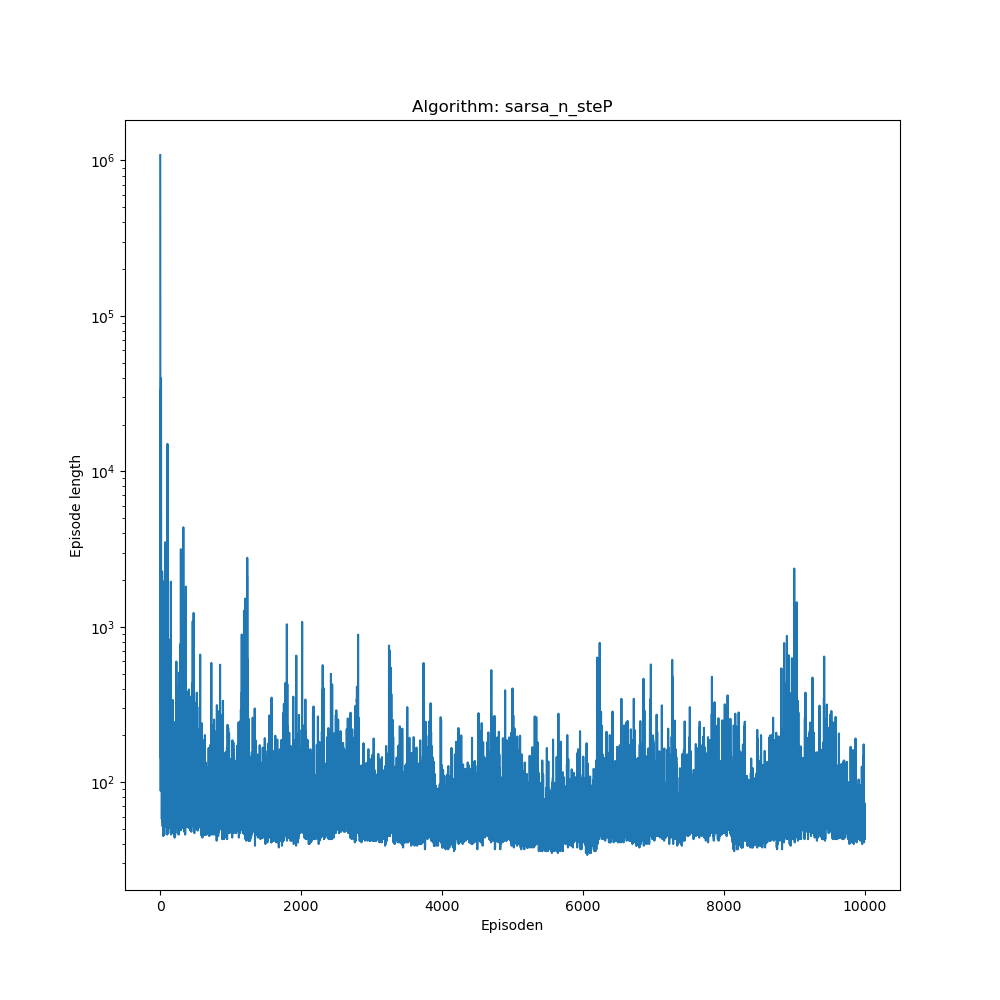
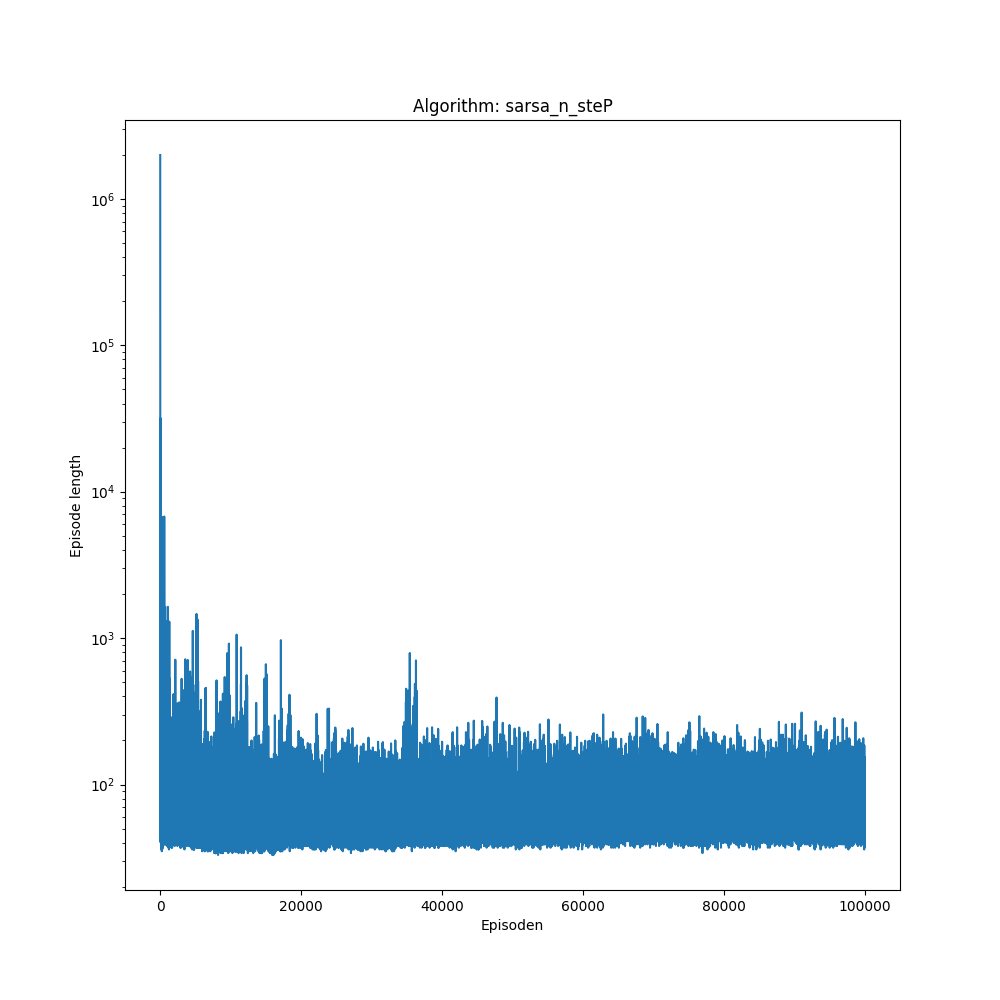
n_step sarsa with adapting learning rate

diff --git a/code/reinforce.py b/code/reinforce.py
@@ -120,6 +120,12 @@ def n_step_sarsa(robot, num_episodes, alpha=0.1, gamma=0.99, epsilon=0.1, verbos
     n=5
     episode_lengths = []    
     for episode in range(num_episodes):
+
+        # Überprüfe, ob die aktuelle Episode ein Vielfaches von 25.000 ist
+        if episode % 25000 == 0:
+            # Multipliziere den aktuellen Wert von alpha mit 0.1
+            alpha *= 0.1
+            
         start_time = time.time()
         # Initialize the starting state S (choosing from the starting positions)
         robot.reset()
@@ -239,8 +245,8 @@ def n_step_sarsa(robot, num_episodes, alpha=0.1, gamma=0.99, epsilon=0.1, verbos
 arm = bot.Three_Axis_Robot_Arm()
 arm.show(draw_path=True, draw_voxels=True, zoom_path=True)
 
-num_episodes = 10000
-alpha = 1/25
+num_episodes = 100000
+alpha = 0.1
 gamma = 0.99
 epsilon = 0.1
 
